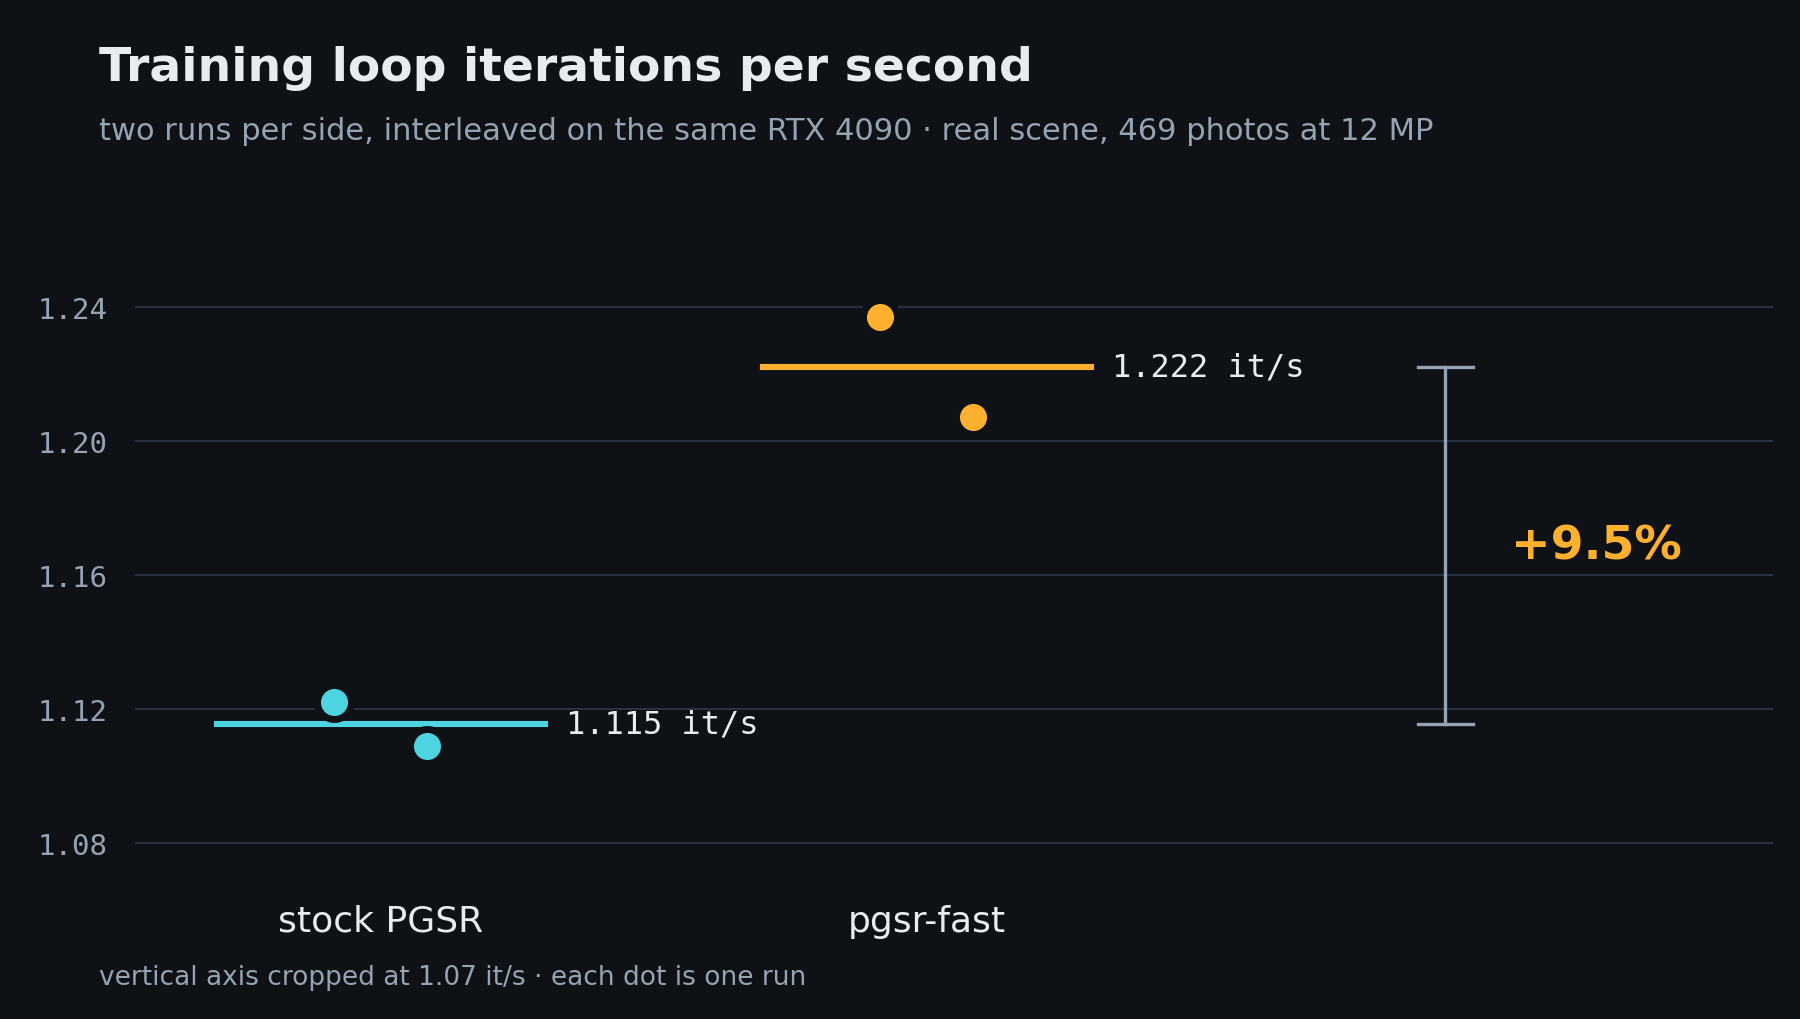
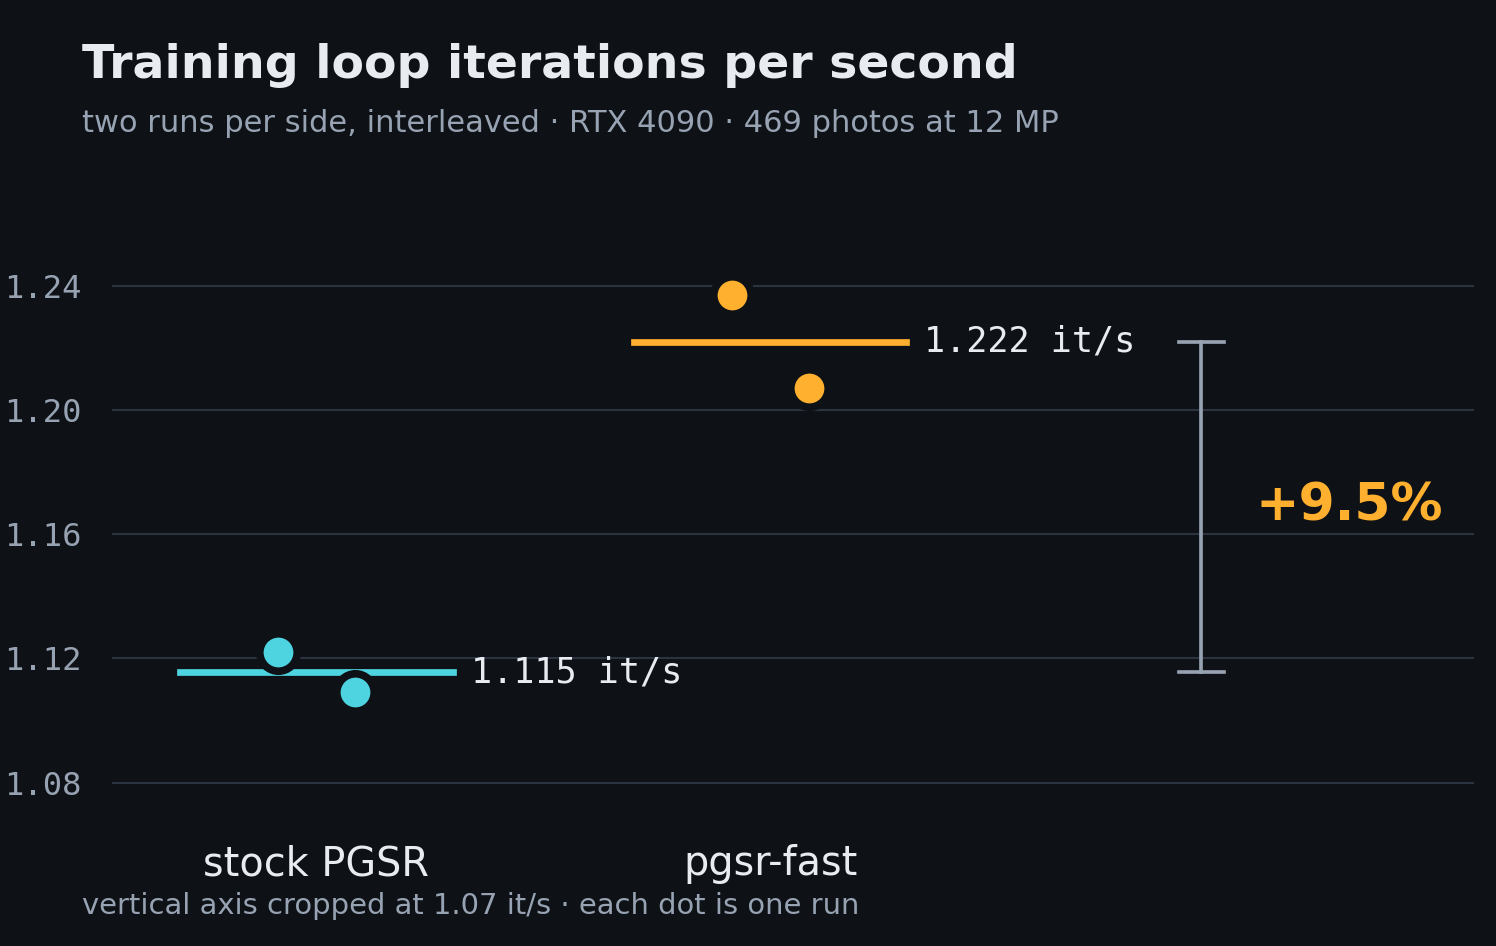
fix: anel de foco invisível, alvos de toque e a capa da Emais com barra de status
O anel de foco do botão âmbar principal saía com 1,00:1 de contraste — o atalho
`outline: 2px solid var(...)` caía para currentColor, que ali é a cor do fundo.
Separado em declaração própria. Era o único ponto do site sem foco visível.

O menu do celular tinha 34,5 px e se anunciava como "Projetos" para leitor de tela;
os links do rodapé tinham 18 px de altura. Todos passam a 44 px, e o hambúrguer
ganhou rótulo próprio.

A capa do card da Emais era a primeira imagem da galeria recortada: aparecia o terço
de cima de uma captura de celular, ampliado 1,46×, com a barra de status do Android.
Agora é composição própria dos quatro aparelhos, em paisagem, sem as barras do
sistema — e ela não repete no topo da página, onde a galeria já mostra as telas.

O gráfico do pgsr foi regerado menor em polegadas e mais denso, para o texto
sobreviver aos 335 px de exibição no celular, e ganhou alternativo que descreve os
números em vez de repetir o título.

diff --git a/src/content.config.ts b/src/content.config.ts
@@ -44,6 +44,17 @@ const projects = defineCollection({
         .default([]),
       cover: image().optional(),
       /*
+        `cover` sem descrição sai com o título como alternativo, que não serve para
+        gráfico: "pgsr-fast" não diz nada a quem não enxerga a imagem.
+      */
+      coverAlt: z.string().optional(),
+      /*
+        Capa que só vale como miniatura de card. A da Emais é a composição das quatro
+        telas da galeria — repeti-la no topo da própria página seria mostrar a mesma
+        coisa duas vezes, uma embaixo da outra.
+      */
+      coverCardOnly: z.boolean().default(false),
+      /*
         Provas visuais além da capa. `gallery` costuma vir em par antes/depois, e o
         `video` mora em `public/` porque arquivo de vídeo não passa pelo pipeline de
         imagem do Astro — por isso os caminhos aqui são texto, não `image()`.

diff --git a/src/styles/global.css b/src/styles/global.css
@@ -60,8 +60,16 @@
     text-wrap: pretty;
   }
 
+  /*
+    `outline-color` precisa vir na sua própria declaração. No atalho `outline: 2px solid
+    var(--color-measure)` a cor caía para `currentColor` nos dois botões âmbar — o CTA do
+    hero e o do WhatsApp —, onde `currentColor` é a cor do fundo: o anel existia com
+    1,00:1 de contraste, ou seja, invisível justamente no botão principal. (Medido na
+    auditoria da Sessão 3.)
+  */
   :focus-visible {
-    outline: 2px solid var(--color-measure);
+    outline: 2px solid;
+    outline-color: var(--color-measure);
     outline-offset: 3px;
     border-radius: 2px;
   }

diff --git a/src/lib/i18n.ts b/src/lib/i18n.ts
@@ -13,6 +13,7 @@ export const ui = {
     'nav.3d': '3D',
     'nav.about': 'Sobre',
     'nav.cv': 'Currículo',
+    'nav.menu': 'Abrir o menu',
     'nav.skip': 'Pular para o conteúdo',
     'hero.role': 'Engenharia de computação · Curitiba, Brasil',
     'hero.lede':
@@ -75,6 +76,7 @@ export const ui = {
     'nav.3d': '3D',
     'nav.about': 'About',
     'nav.cv': 'Résumé',
+    'nav.menu': 'Open menu',
     'nav.skip': 'Skip to content',
     'hero.role': 'Computer engineer · Curitiba, Brazil',
     'hero.lede':

diff --git a/scripts/emais-cover.py b/scripts/emais-cover.py
@@ -1,0 +1,71 @@
+"""
+Monta a capa do card da Emais: os quatro aparelhos lado a lado, em paisagem.
+
+Por que existe: sem capa própria, o card caía no primeiro item da galeria — uma captura
+9:16 recortada numa caixa 1,37:1 com `object-top`. Aparecia só o terço de cima da tela,
+ampliado 1,46×, ou seja: o cartão de destaque do site abria com a barra de status do
+Android (relógio, wi-fi, 91% de bateria). Medido na auditoria da Sessão 3.
+
+Aqui a barra de status é cortada de propósito e a proporção nasce em paisagem, então o
+recorte do card não tem o que estragar.
+
+Rodar: python scripts/emais-cover.py
+Saída: src/assets/projects/emais-cover.png
+"""
+
+from pathlib import Path
+
+from PIL import Image, ImageDraw
+
+BACKGROUND = (14, 17, 22, 255)  # --color-page
+BEZEL = (42, 51, 63, 255)       # --color-line
+
+CANVAS = (1600, 900)
+STATUS_BAR_FRACTION = 0.046  # a faixa do relógio e da bateria, no topo da captura
+NAV_BAR_FRACTION = 0.042     # os três botões do Android, no rodapé — também são do aparelho
+PHONE_HEIGHT = 680
+GAP = 34
+CORNER = 38
+
+
+def rounded(image: Image.Image, radius: int) -> Image.Image:
+    mask = Image.new('L', image.size, 0)
+    ImageDraw.Draw(mask).rounded_rectangle([(0, 0), image.size], radius=radius, fill=255)
+    out = image.copy()
+    out.putalpha(mask)
+    return out
+
+
+def build(sources: list[Path], out: Path) -> None:
+    canvas = Image.new('RGBA', CANVAS, BACKGROUND)
+
+    phones = []
+    for path in sources:
+        shot = Image.open(path).convert('RGBA')
+        top = int(shot.height * STATUS_BAR_FRACTION)
+        bottom = shot.height - int(shot.height * NAV_BAR_FRACTION)
+        shot = shot.crop((0, top, shot.width, bottom))
+        scale = PHONE_HEIGHT / shot.height
+        shot = shot.resize((round(shot.width * scale), PHONE_HEIGHT), Image.LANCZOS)
+        phones.append(rounded(shot, CORNER))
+
+    total = sum(p.width for p in phones) + GAP * (len(phones) - 1)
+    x = (CANVAS[0] - total) // 2
+    y = (CANVAS[1] - PHONE_HEIGHT) // 2
+
+    for phone in phones:
+        frame = Image.new('RGBA', (phone.width + 4, phone.height + 4), (0, 0, 0, 0))
+        ImageDraw.Draw(frame).rounded_rectangle(
+            [(0, 0), (frame.width - 1, frame.height - 1)], radius=CORNER + 2, fill=BEZEL
+        )
+        canvas.alpha_composite(frame, (x - 2, y - 2))
+        canvas.alpha_composite(phone, (x, y))
+        x += phone.width + GAP
+
+    canvas.convert('RGB').save(out, optimize=True)
+    print(f'{out} · {canvas.size[0]}x{canvas.size[1]}')
+
+
+if __name__ == '__main__':
+    assets = Path(__file__).resolve().parent.parent / 'src' / 'assets' / 'projects'
+    build([assets / f'emais-app-{i}.png' for i in (1, 2, 3, 4)], assets / 'emais-cover.png')

diff --git a/scripts/pgsr-bench-chart.py b/scripts/pgsr-bench-chart.py
@@ -42,7 +42,7 @@ Y_TICKS = [1.08, 1.12, 1.16, 1.20, 1.24]
 TEXTS = {
     "pt": {
         "title": "Iterações por segundo no laço de treino",
-        "subtitle": "duas execuções de cada lado, intercaladas na mesma RTX 4090 · cena real de 469 fotos a 12 MP",
+        "subtitle": "duas execuções de cada lado, intercaladas · RTX 4090 · 469 fotos a 12 MP",
         "baseline": "PGSR original",
         "patched": "pgsr-fast",
         "unit": "it/s",
@@ -51,7 +51,7 @@ TEXTS = {
     },
     "en": {
         "title": "Training loop iterations per second",
-        "subtitle": "two runs per side, interleaved on the same RTX 4090 · real scene, 469 photos at 12 MP",
+        "subtitle": "two runs per side, interleaved · RTX 4090 · 469 photos at 12 MP",
         "baseline": "stock PGSR",
         "patched": "pgsr-fast",
         "unit": "it/s",
@@ -71,7 +71,10 @@ def build(lang: str, out: Path) -> None:
     mean_base = sum(BASELINE) / len(BASELINE)
     mean_patch = sum(PATCHED) / len(PATCHED)
 
-    fig, ax = plt.subplots(figsize=(9, 5.1), dpi=200)
+    # Figura pequena em polegadas, densidade alta: o mesmo corpo de texto ocupa uma
+    # fração maior da largura do PNG, e é o que salva a leitura no celular, onde a
+    # imagem é exibida com cerca de 335 px. (Medido na auditoria da Sessão 3.)
+    fig, ax = plt.subplots(figsize=(6.8, 4.3), dpi=220)
     fig.patch.set_facecolor(PAGE)
     ax.set_facecolor(PAGE)
 
@@ -114,8 +117,8 @@ def build(lang: str, out: Path) -> None:
                        fontsize=10.5, color=DIM, family="monospace")
     ax.tick_params(length=0, pad=10)
 
-    fig.text(0.055, 0.955, t["title"], color=INK, fontsize=17, fontweight="bold", va="top")
-    fig.text(0.055, 0.885, t["subtitle"], color=DIM, fontsize=11, va="top")
+    fig.text(0.055, 0.955, t["title"], color=INK, fontsize=15.5, fontweight="bold", va="top")
+    fig.text(0.055, 0.885, t["subtitle"], color=DIM, fontsize=10, va="top")
     fig.text(0.055, 0.028, t["footnote"], color=DIM, fontsize=9.5, va="bottom")
 
     fig.subplots_adjust(left=0.075, right=0.985, top=0.79, bottom=0.14)

diff --git a/src/content/projects/pt/emais-network.md b/src/content/projects/pt/emais-network.md
@@ -9,6 +9,10 @@ context: Cliente da Dark Marlin, minha dev-shop
 period: '2026'
 status: Em produção, com pagamentos reais
 order: 10
+cover: ../../../assets/projects/emais-cover.png
+coverCardOnly: true
+coverAlt: >-
+  As quatro telas do aplicativo da Emais lado a lado: agenda de eventos, conta do membro e o assistente
 summary: >-
   Plataforma de gestão de networking empresarial presencial — eventos, ingressos,
   adesão de membros e financeiro multi-franquia, transacionando dinheiro de verdade.

diff --git a/src/content/projects/en/emais-network.md b/src/content/projects/en/emais-network.md
@@ -9,6 +9,10 @@ context: Client of Dark Marlin, my dev shop
 period: '2026'
 status: In production, with real payments
 order: 10
+cover: ../../../assets/projects/emais-cover.png
+coverCardOnly: true
+coverAlt: >-
+  The four Emais app screens side by side: event schedule, member account and the assistant
 summary: >-
   Management platform for in-person business networking — events, tickets, membership
   and multi-franchise finance, moving real money.

diff --git a/src/content/projects/pt/pgsr-fast.md b/src/content/projects/pt/pgsr-fast.md
@@ -10,6 +10,8 @@ period: '2026'
 status: Público, com benchmark reproduzível
 cover: ../../../assets/projects/pgsr-bench-pt.png
 order: 50
+coverAlt: >-
+  Gráfico de pontos: 1,115 it/s no PGSR original contra 1,222 it/s no pgsr-fast, duas execuções de cada lado, eixo recortado em 1,07
 summary: >-
   Treze correções cirúrgicas que deixam o treino de reconstrução de superfície mais
   rápido sem mudar uma vírgula do resultado final.

diff --git a/src/content/projects/en/pgsr-fast.md b/src/content/projects/en/pgsr-fast.md
@@ -10,6 +10,8 @@ period: '2026'
 status: Public, with a reproducible benchmark
 cover: ../../../assets/projects/pgsr-bench-en.png
 order: 50
+coverAlt: >-
+  Dot chart: 1.115 it/s on stock PGSR against 1.222 it/s on pgsr-fast, two runs per side, axis cropped at 1.07
 summary: >-
   Thirteen targeted patches that make surface reconstruction training faster without
   changing a comma of the final result.
